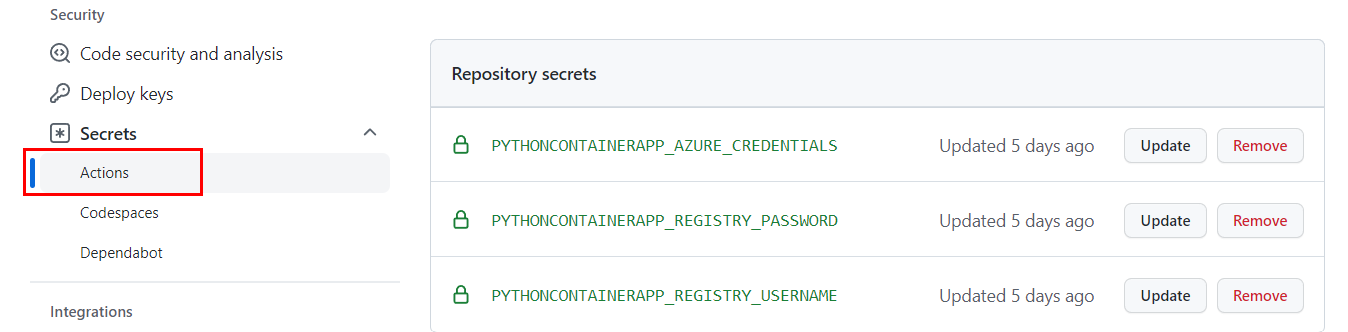
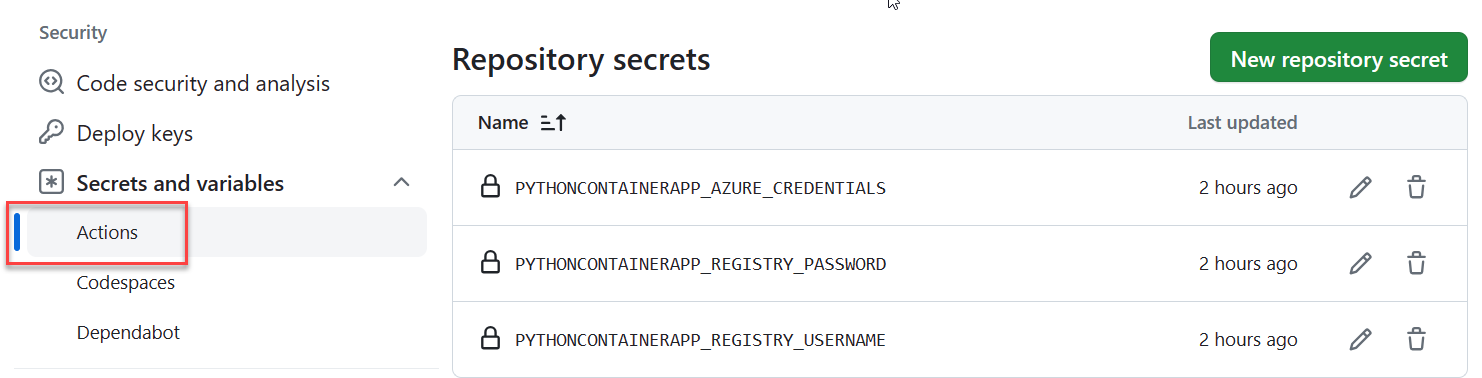
Updated some steps and repo secrets screenshot

diff --git a/articles/python/tutorial-deploy-python-web-app-azure-container-apps-03.md b/articles/python/tutorial-deploy-python-web-app-azure-container-apps-03.md
@@ -33,7 +33,7 @@ To set up continuous deployment, you'll need:
 
 In a previous article of this tutorial, you created and configured a container app in Azure Container Apps. Part of the configuration was pulling a Docker image from an Azure Container Registry. The container image is pulled from the registry when creating a container [*revision*][5], such as when you first set up the container app.
 
-In the steps below, you'll set up continuous deployment, which means a new Docker image and container revision are created based on a trigger. The trigger in this tutorial is any change to the *main* branch of your repository, such as with a pull request (PR). When triggered, the workflow creates a new Docker image, pushes it to the Azure Container Registry, and updates the container app to a new revision using the new image.
+In this section, you'll set up continuous deployment, which means a new Docker image and container revision are created based on a trigger. The trigger in this tutorial is any change to the *main* branch of your repository, such as with a pull request (PR). When triggered, the workflow creates a new Docker image, pushes it to the Azure Container Registry, and updates the container app to a new revision using the new image.
 
 ### [Azure portal](#tab/azure-portal)
 
@@ -106,10 +106,10 @@ Azure CLI commands can be run in the [Azure Cloud Shell][4] or on a workstation 
 
         Where: 
         * *\<app-name>* is an optional display name for the service principal. If you leave off the `--name` option, a GUID is generated as the display name.
-        * *\<subscription-ID>* is the GUID that uniquely identifies your subscription in Azure.
-        * *\<resource-group-name>* is the name of a resource group that contains the Azure Container Apps container. Role-based access control (RBAC) is on the resource group level.
+        * *\<subscription-ID>* is the GUID that uniquely identifies your subscription in Azure. If you don't know your subscription ID, you can run the [az account show](/cli/azure/account#az-account-show) command and copy it from the `id` property in the output.
+        * *\<resource-group-name>* is the name of a resource group that contains the Azure Container Apps container. Role-based access control (RBAC) is on the resource group level. If you followed the steps in the previous article in this tutorial, the resource group name is `pythoncontainer-rg`.
 
-        Save the output of this command for the next step, in  particular, the client ID and client secret.
+        Save the output of this command for the next step, in  particular, the client ID (`appId` property), client secret (`password` property), and tenant ID (`tenant` property).
 
     :::column-end:::
 :::row-end:::
@@ -121,7 +121,7 @@ Azure CLI commands can be run in the [Azure Cloud Shell][4] or on a workstation 
         az containerapp github-action add \
         --resource-group <resource-group-name> \
         --name python-container-app \
-        --repo-url https://github.com/userid/repo \
+        --repo-url <https://github.com/userid/> \
         --branch main \
         --registry-url <registry-name>.azurecr.io \
         --service-principal-client-id <client-id> \
@@ -132,10 +132,11 @@ Azure CLI commands can be run in the [Azure Cloud Shell][4] or on a workstation 
 
         Where:
         * *\<resource-group-name>* is the name of the resource group. If you are following this tutorial, it is "pythoncontainer-rg".
-        * *\<registry-name>* is an existing registry you created for this tutorial, or one that you can use.
-        * *\<client-id>* is a value from the previous `az ad sp` command. The ID is a GUID of the form 00000000-0000-0000-0000-00000000.
-        * *\<tenant-id>* is a value from the previous `az ad sp` command. The ID is also a GUID similar to the client id.
-        * *\<client-secret>* is a value from the previous `az ad sp` command.
+        * *\<https://github.com/repo>* is the URL of your GitHub repository. If you're following the steps in this tutorial, it will be either https://github.com/<User ID>/msdocs-python-django-azure-container-apps or https://github.com/<User ID>/msdocs-python-flask-azure-container-apps; where \<User ID> is your GitHub user ID.
+        * *\<registry-name>* is the existing Container Registry you created for this tutorial, or one that you can use.
+        * *\<client-id>* is the value of the `appId` property from the previous `az ad sp create-for-rbac` command. The ID is a GUID of the form 00000000-0000-0000-0000-00000000.
+        * *\<tenant-id>* is the value of the `appId` property from the previous `az ad sp create-for-rbac` command. The ID is also a GUID similar to the client ID.
+        * *\<client-secret>* is the value of the `password` property from the previous `az ad sp create-for-rbac` command.
 
     :::column-end:::
 :::row-end:::
@@ -200,7 +201,7 @@ git pull
 
 **Step 2.** Make a change.
 
-Go to the *./templates/base.html* file and change the phrase "Azure Restaurant Review" to "Azure Restaurant Review - Redeployed".
+Go to the *./templates/base.html* file (*./restaurant_review/templates/restaruant_review/base.html* for django) and change the phrase "Azure Restaurant Review" to "Azure Restaurant Review - Redeployed".
 
 **Step 3.** Commit and push the change to GitHub.
 
@@ -237,13 +238,20 @@ The push of changes to the *main* branch kicks off the GitHub Actions workflow.
 
 These steps use the [GitHub CLI][18].
 
-**Step 1.** Get a summary of your workflow.
+**Step 1.** Get a summary of your workflow. Run the following command in folder that contains your clone:
 
 ```console
 gh workflow view
 ```
 
-This command prompts you to select a workflow and then gives an overview of recent runs of that workflow. The first time using `gh` you may be prompted to authentication. Follow the GitHub CLI prompts to authenticate.
+This command prompts you to select a workflow and then gives an overview of recent runs of that workflow.
+
+> [!NOTE]
+> The first time using `gh` you may be prompted to authentication. Follow the GitHub CLI prompts to authenticate.
+>
+> If you have more than one remote configured, you might be asked to run `gh repo set-default` to select a default remote repository. Select your fork from the options presented.
+>
+> You can run the `gh workflow view` command from any folder without the need to set a default repository by adding the `--repo [HOST/]OWNER/REPO` parameter.
 
 **Step 2.** Go to GitHub for details of run of workflow.
 
@@ -255,7 +263,7 @@ gh workflow view --web
 
 ### Workflow secrets
 
-In the *.github/workflows/\<workflow-name>.yml* workflow file that was added to the repo, you'll see placeholders for credentials that are needed for the build and container app update jobs of the workflow. The credential information is stored encrypted in the repository **Settings** under **Security**/**Actions**.
+In the *.github/workflows/\<workflow-name>.yml* workflow file that was added to the repo, you'll see placeholders for credentials that are needed for the build and container app update jobs of the workflow. The credential information is stored encrypted in the repository **Settings** under **Security**/**Secrets and variables**/**Actions**.
 
 :::image type="content" source="media/tutorial-container-apps/github-repo-action-secrets.png" alt-text="Screenshot showing how to see where GitHub Actions secrets are stored in GitHub." lightbox="media/tutorial-container-apps/github-repo-action-secrets.png":::
 
